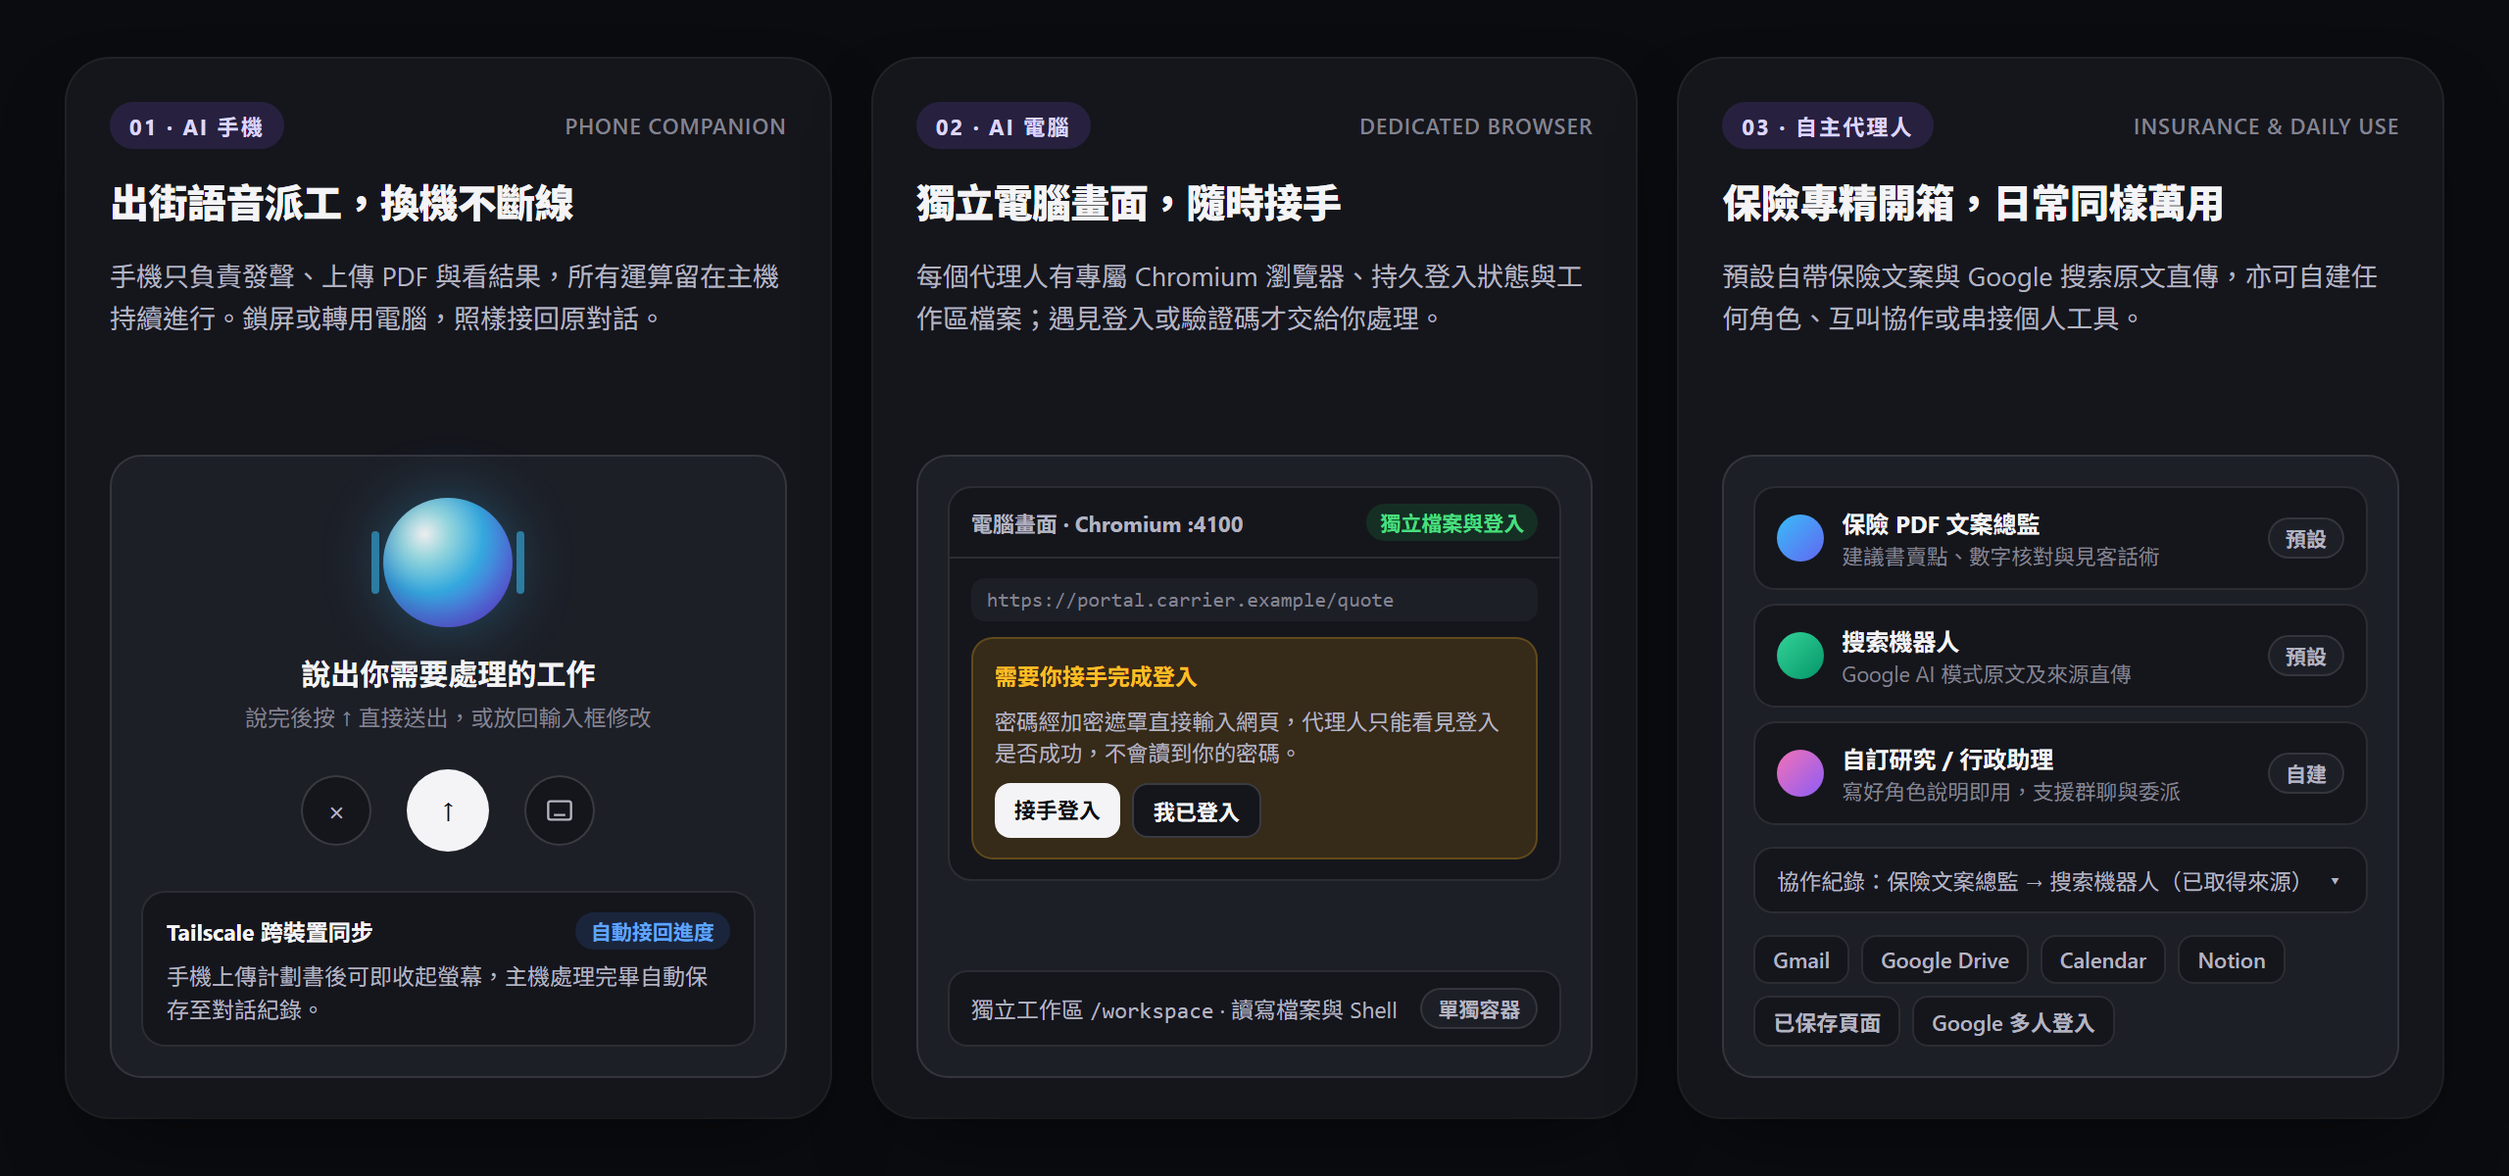
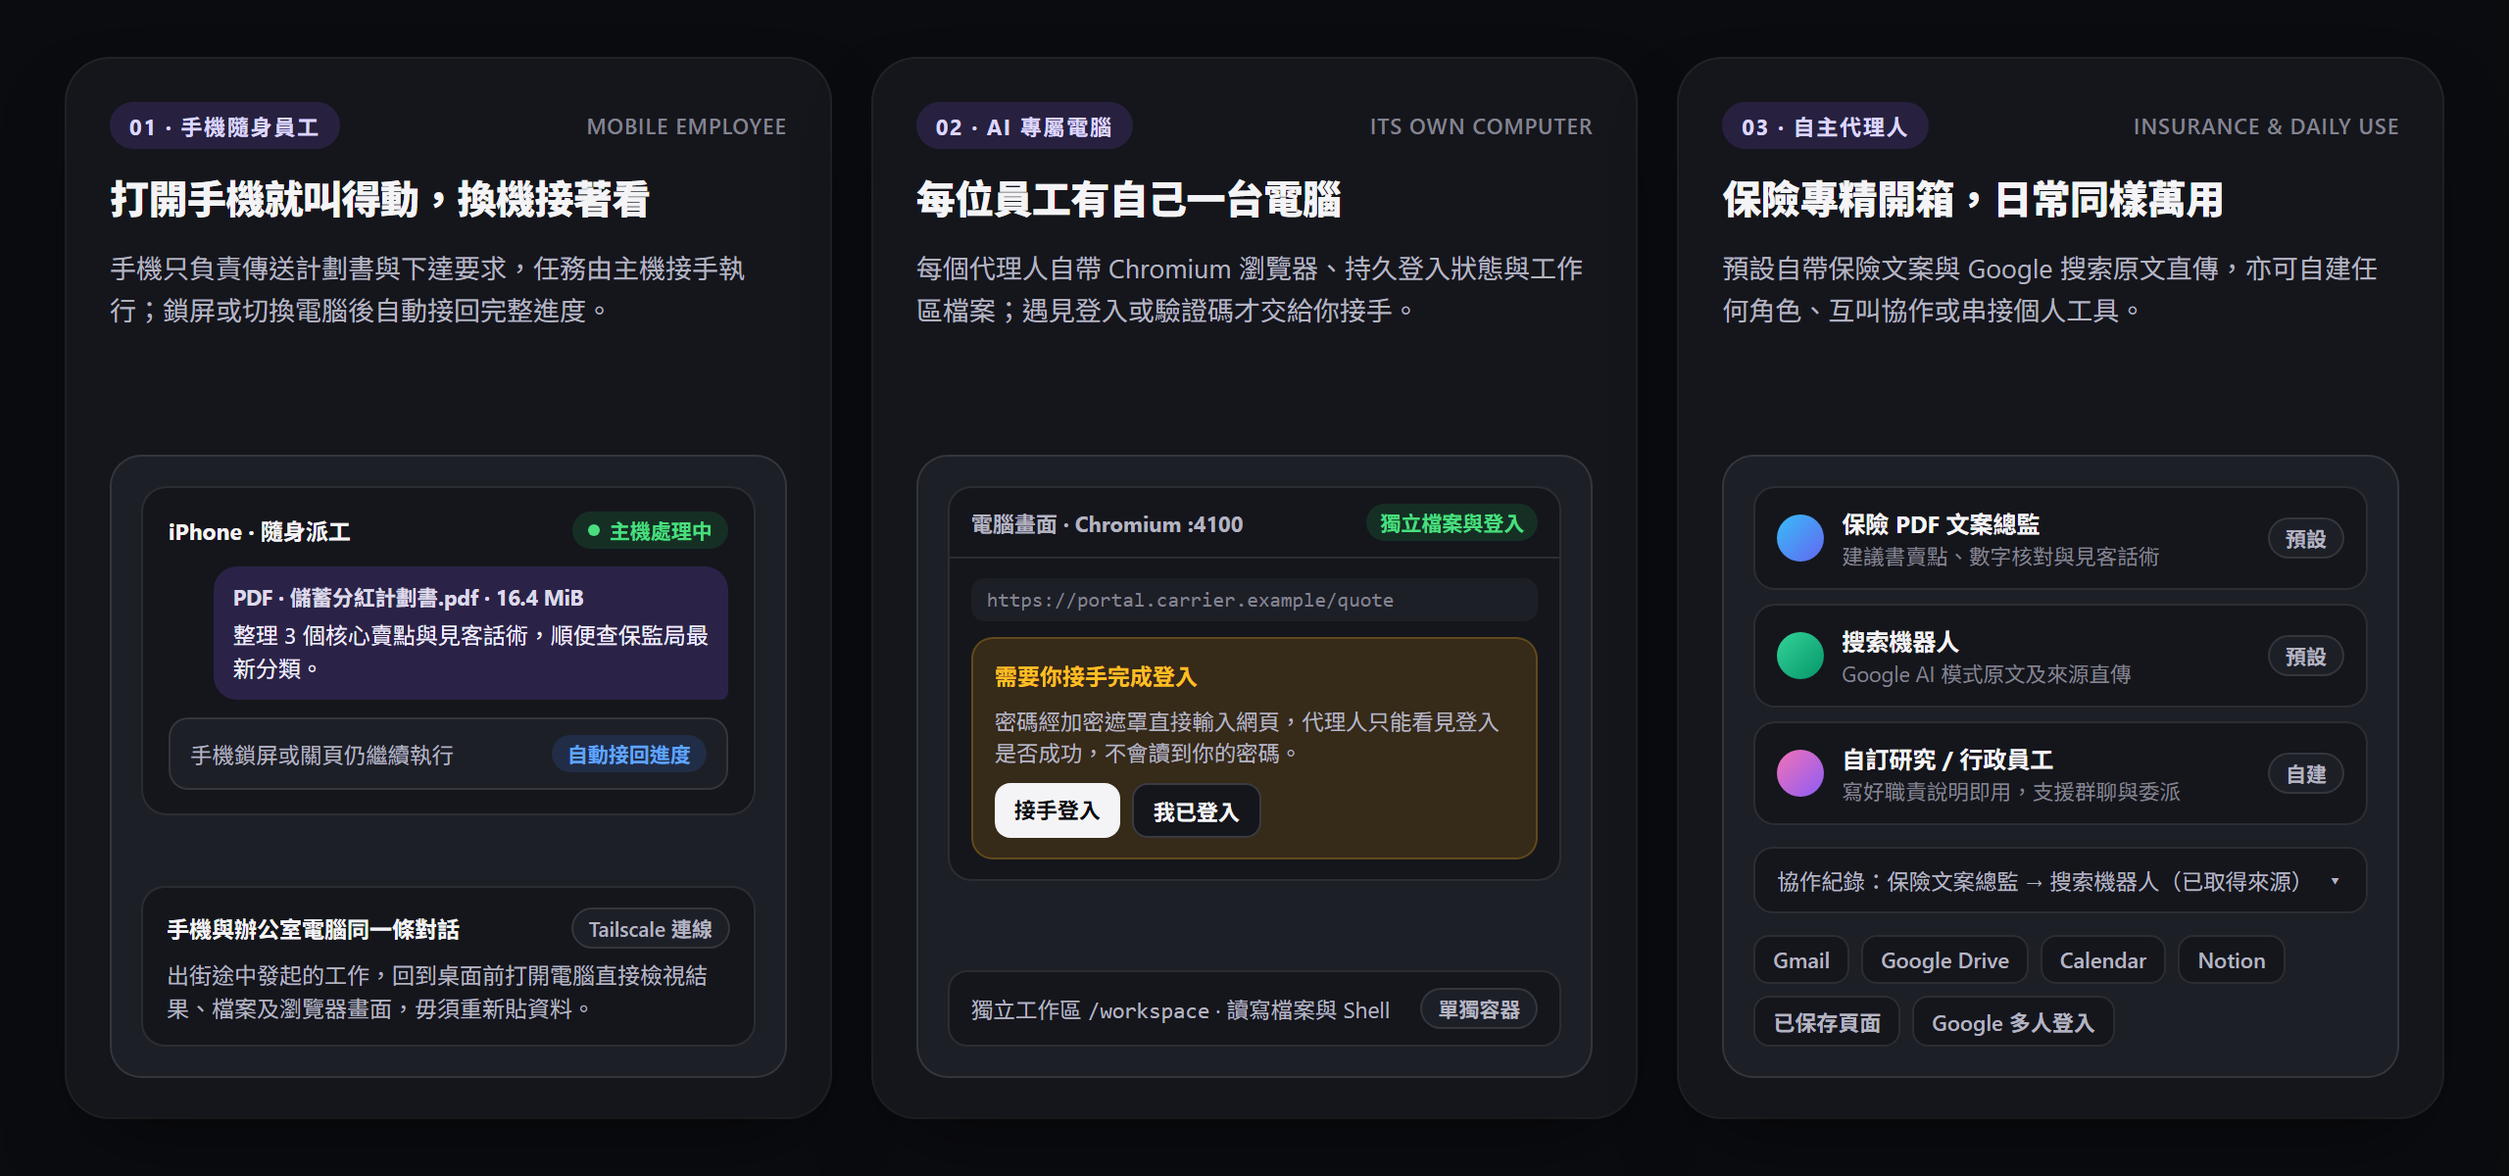
docs: focus README and visuals on mobile employee and dedicated AI computer [skip ci]

diff --git a/README.md b/README.md
@@ -3,14 +3,14 @@
 <picture>
   <source media="(prefers-color-scheme: dark)" srcset="assets/banner-dark.png">
   <source media="(prefers-color-scheme: light)" srcset="assets/banner.png">
-  <img src="assets/banner.png" alt="PDSDuet — 會自己開電腦做事的 AI，手機隨時指揮、實時看畫面" width="100%">
+  <img src="assets/banner.png" alt="PDSDuet — 每個 AI 都有自己的電腦，手機就是你的隨身員工" width="100%">
 </picture>
 
 <br>
 
-### 一部會自己開電腦做事、手機隨時接手的自主 AI 代理人
+### 每個 AI 都有自己的電腦，手機就是你的隨身員工
 
-An autonomous AI agent with its own computer — built for insurance brokers first, simple enough for anyone to run daily.
+Your mobile AI employee, backed by its own persistent computer — built for insurance brokers first, simple enough for anyone to use daily.
 
 <p>
   <a href="#繁體中文介紹"><strong>繁體中文</strong></a> ·
@@ -34,10 +34,10 @@ An autonomous AI agent with its own computer — built for insurance brokers fir
 <picture>
   <source media="(prefers-color-scheme: dark)" srcset="assets/showcase-dark.png">
   <source media="(prefers-color-scheme: light)" srcset="assets/showcase.png">
-  <img src="assets/showcase.png" alt="PDSDuet 三大核心能力：AI 手機隨身派工、AI 電腦實時畫面接手、保險與日常多代理協作" width="100%">
+  <img src="assets/showcase.png" alt="PDSDuet 三大核心能力：手機隨身員工、AI 專屬電腦、保險與日常自主代理人" width="100%">
 </picture>
 <br>
-<sub>出街手機語音派工 · 瀏覽器畫面隨時接手 · 保險專精開箱亦支援自建角色與團隊共用</sub>
+<sub>手機打開隨時派工 · 每位員工有獨立電腦與瀏覽器 · 保險專精開箱亦支援自建角色與團隊共用</sub>
 </div>
 
 ---
@@ -50,7 +50,7 @@ An autonomous AI agent with its own computer — built for insurance brokers fir
 
 保險從業員日常最花精神的，往往不是專業判斷，而是**趕著見客前，要把幾十頁保司計劃書拆成客人聽得明的重點與講法**；或者在外出途中，臨時要查公開條款、對數字、整理跟進草稿。
 
-一般對話式 AI 每次換裝置都要重頭交代、開不了真實網頁查原文，手機一鎖屏長任務就斷。**PDSDuet** 把主機上的 **AI 電腦**、口袋裡的**手機網頁伴侶**與可分工的**自主代理人**放進同一個工作台：你在外面用手機講一句或丟入計劃書 PDF，主機在後方繼續跑；回到電腦前打開同一個畫面，進度、檔案和瀏覽器登入狀態都在。
+一般對話式 AI 每次換裝置都要重頭交代、開不了真實網頁查原文，手機一鎖屏長任務就斷。**PDSDuet** 把主機上的 **AI 專屬電腦**、手機裡的**隨身 AI 員工**與可分工的**自主代理人**放進同一個工作台：你在外面用手機打開網頁丟入計劃書 PDF 或指派任務，主機在後方繼續跑；回到電腦前打開同一條對話，進度、檔案與瀏覽器登入狀態全部接得上。
 
 ---
 
@@ -60,26 +60,26 @@ An autonomous AI agent with its own computer — built for insurance brokers fir
 <tr>
 <td width="33.3%" valign="top">
 
-#### 📱 AI 手機 · 隨身指揮不斷線
-- **手機電腦同一條對話**：經 Tailscale 安全連回主機，外出一半交辦的任務，回公司用電腦直接接著看。
-- **全螢幕語音輸入**：行街坐車不方便打字時，按一下麥克風口述需求，說完直接送出或放回編輯框微調。
-- **鎖屏照樣繼續跑**：所有運算與串流狀態由主機 PostgreSQL 管理，切出畫面或斷線重連後自動恢復進度。
+#### 📱 手機隨身員工 · 打開就叫得動
+- **手機電腦同一條對話**：經 Tailscale 安全連回主機，出街途中在手機下達的工作，回辦公室用電腦直接接著檢視結果。
+- **主機扛起繁重運算**：手機只負責上傳計劃書與下達要求，實際閱讀文件與操作網頁全部在你的主機執行。
+- **鎖屏斷線不掉進度**：對話紀錄與執行狀態由主機 PostgreSQL 管理，切出畫面或重新連線後自動接回實時進度。
 
 </td>
 <td width="33.3%" valign="top">
 
-#### 🖥 AI 電腦 · 看得見、接得手
-- **每個代理人一台電腦**：自帶獨立 Chromium 瀏覽器（保留網站登入狀態）及隔離工作區 `/workspace`。
-- **實時瀏覽器畫面**：對話旁邊隨時展開「電腦畫面」，清楚看見代理人正在看哪一頁、點了哪裡。
-- **安全接手登入**：遇到需要輸入密碼或驗證碼的網站，代理人會停下來交棒給你；密碼透過加密遮罩直接輸入網頁，代理人永不接觸密碼。
+#### 🖥 AI 專屬電腦 · 每位員工一台機
+- **獨立瀏覽器與工作區**：每個代理人自帶專屬 Chromium 瀏覽器（保留網站登入狀態）及隔離工作區 `/workspace`，支援讀寫檔案與 Shell 指令。
+- **實時看到電腦畫面**：對話旁邊隨時展開「電腦畫面」，清楚看見這位員工正在開哪個網頁、查到哪裡。
+- **安全接手登入**：遇到網站需要輸入密碼或驗證碼時自動暫停；密碼透過加密遮罩直接送入網頁，代理人永不接觸密碼，登入完交還控制權即繼續。
 
 </td>
 <td width="33.3%" valign="top">
 
 #### 🤝 自主代理人 · 保險專精、日常萬用
-- **開箱即用雙代理人**：內建「保險 PDF 文案總監」與「搜索機器人」，不用自己從零寫設定。
-- **Bot 之間直接協作**：主代理人可主動委派其他代理人查資料，過程收起為可展開的協作紀錄，最後統一整理交回給你。
-- **自建角色與群聊**：隨時新增任何專長的新代理人，亦可開一個群聊讓多個代理人同場各自回應。
+- **開箱即用雙員工**：內建「保險 PDF 文案總監」與「搜索機器人」，不用自己從零寫設定。
+- **員工之間直接協作**：主代理人可主動委派其他代理人查資料，過程收起成可展開的協作紀錄，最後整理成完整回覆交給你。
+- **自建角色與群聊**：隨時新增任何專長的新員工，亦可開一個群聊讓多位代理人同場各自回應。
 
 </td>
 </tr>
@@ -89,29 +89,29 @@ An autonomous AI agent with its own computer — built for insurance brokers fir
 
 ### 保險從業者的 5 分鐘日常
 
-1. **選取代理人，直接丟入 PDF 原檔**
-   在手機或電腦打開對話，上載保司產品小冊子或建議書（單檔最高 **20 MiB**，單輪總附件上限 **32 MiB**）。系統會將原始 PDF 直接傳給模型閱讀頁面與數字，而不是粗糙抽取純文字。
+1. **在手機或電腦選取員工，直接丟入 PDF 原檔**
+   上載保司產品小冊子或建議書（單檔最高 **20 MiB**，單輪總附件上限 **32 MiB**）。系統會將原始 PDF 直接傳給模型閱讀頁面與數字，而不是粗糙抽取純文字。
 2. **取得可直接見客的香港繁體中文成稿**
    預設的**保險 PDF 文案總監**會依實際文件產出：
    - **產品一句話定位**
    - **3 至 4 個不重複的核心賣點**（由客戶實際財務痛點切入到具體保障或回報數字）
    - **可直接說出口的示範話術**（得體自然的香港書面繁體中文，不寫空洞口號，亦不在結尾追問客套話）
    - **2 條客戶常見問題與正面解答**
-3. **要查保監局、稅務或醫療公開資料，直接交給搜索機器人**
+3. **要查保監局、稅務或醫療公開資料，交給搜索機器人**
    **搜索機器人**會用瀏覽器固定分頁開啟 Google AI 模式查詢，把完整回答與來源連結原文直傳給你，不做擅自改寫或刪節。
 4. **遇到需要登入保司系統或網頁查核，點一下接手**
-   展開右側「電腦畫面」，自己輸入帳號密碼完成驗證後按「我已登入」，代理人就會接著完成餘下步驟。
+   展開「電腦畫面」，自己輸入帳號密碼完成驗證後按「我已登入」，AI 員工就會接著完成餘下步驟。
 
 ---
 
 ### 普通人也能拿來做甚麼？
 
-你不做保險，一樣可以把 PDSDuet 當成自己的「隨身 AI 電腦」：
+你不做保險，一樣可以把 PDSDuet 當成養在自己主機上的「隨身數碼員工」：
 
-- **自建專職小助手**：新增代理人時只需寫清楚名稱與職責說明（支援直接調用 OpenAI / Anthropic，或接駁你自己的 AG-UI / LangGraph 服務），就能變成旅遊比價、租約／條款核對、技術研究或書信寫作助手。
-- **瀏覽器＋工作區雙管齊下**：讓它替你打開網頁讀資料、用 Shell 處理文字或整理筆記寫入 `/workspace`，也可以把整理好的報告存成**已保存頁面**隨時重溫。
+- **寫一段職責說明就多一位專屬員工**：新增代理人時只需填寫名稱與職責（支援直接調用 OpenAI / Anthropic，或接駁你自己的 AG-UI / LangGraph 服務），就能變成旅遊比價、租約／合約細則梳理、技術研究或書信寫作助手。
+- **有電腦可用，不只是純聊天**：讓它替你開網頁讀資料、用工作區 `/workspace` 處理文件與腳本，亦可以把整理好的報告存成**已保存頁面**隨時查閱。
 - **按意願串接個人工具**：在「應用程式連接」授權接上 **Gmail、Google Drive、Google Calendar 或 Notion**，寄信等外部動作由你親自批核。
-- **自己用，或跟家人／團隊共用一台主機**：支援 Google、Microsoft、Okta 帳號登入，沿用管理員與一般用戶權限，各人對話與授權分開管理；亦支援單人模式本機啟動。
+- **一人私用，或團隊共用同一主機**：支援 Google、Microsoft、Okta 帳號登入，沿用管理員與一般用戶權限，各人對話與授權分開管理；亦支援單人模式本機啟動。
 
 ---
 
@@ -119,21 +119,21 @@ An autonomous AI agent with its own computer — built for insurance brokers fir
 
 ## English
 
-**PDSDuet** is a self-hosted AI workstation where each agent has its own browser, workspace, and persistent session — steered from either your desktop or your phone. It ships ready for **Hong Kong insurance agents** preparing client meetings, and stays clean and general enough for everyday research and personal workflows.
+**PDSDuet** gives every AI agent its own computer and puts that team in your pocket. Built first around an **insurance broker's** daily workflow, and straightforward enough for anyone who wants reliable, self-hosted digital coworkers accessible from both phone and desktop.
 
 ### Why it feels different from a standard chat box
 
 | Pillar | What actually happens |
 | --- | --- |
-| **AI Computer** | Each Bot runs with its own Chromium profile, persistent sign-in state, shell, and `/workspace`. Open **Live Screen** beside the chat to watch it browse, or take over when a portal asks for login or 2FA — passwords typed into the masked prompt go straight to the page and never enter the model's transcript. |
-| **Phone Companion** | Open the web UI on your phone over Tailscale, attach a proposal PDF, or dictate a task with the full-screen voice sheet. Work continues on the host even if you lock your phone; reconnecting restores the live stream and completed transcript. |
-| **Autonomous Agents** | Ships with two default Bots in [agents.yaml](openbot/examples/openduet/agents.yaml): **保險 PDF 文案總監** (turns uploaded insurance PDFs into grounded Hong Kong Traditional Chinese selling points, spoken-ready scripts, and client Q&A) and **搜索機器人** (fetches verbatim Google AI Mode answers with source links). Add custom Bots, let Bots delegate to each other (`message_bot`), run group chats, or save outputs as readable pages. |
+| **A Mobile Employee** | Open the web app on your phone over Tailscale, drop in a proposal PDF, or assign a task on the move. Your host machine does the heavy lifting — locking your phone or switching to your desk browser never interrupts the run, and reconnecting picks up the live stream cleanly. |
+| **Each AI Has Its Own Computer** | Every Bot gets a persistent Chromium profile, its own sign-in state, shell, and isolated `/workspace`. Open **Live Screen** beside the chat to watch it work, or step in when a portal asks for login or 2FA — credentials typed into the masked prompt go straight to the browser and never enter the model's transcript. |
+| **Built for Insurance, Open to Everyday Work** | Ships with two default Bots in [agents.yaml](openbot/examples/openduet/agents.yaml): **保險 PDF 文案總監** (reads uploaded PDFs natively into Hong Kong Traditional Chinese selling points, grounded numbers, scripts, and Q&A) and **搜索機器人** (returns verbatim Google AI Mode answers with source links). Add your own roles, let Bots delegate to one another (`message_bot`), run group chats, or connect Gmail, Google Drive, Calendar, and Notion with per-user approval. |
 
 ### Built for insurance brokers, open to everyday workflows
 
-- **For insurance agents:** Drop in a product brochure or benefit illustration PDF (up to **20 MiB** per file; sent to the model as an original PDF rather than naive text scraping) and walk into your client meeting with verified figures, plain-language positioning, scripts, and objection answers.
-- **For everyday users:** Replace or add any Bot role with a plain description. Use it as a personal web researcher that keeps its own browser tabs, saves curated pages, works inside `/workspace`, or connects to your **Gmail, Google Drive, Google Calendar, and Notion** under explicit per-user consent.
-- **For solo or small teams:** Run single-user on your own machine, or enable **Google / Microsoft / Okta** sign-in so teammates share one self-hosted server and model key while keeping their own conversations and app grants separate.
+- **For insurance agents:** Upload a product brochure or benefit illustration PDF (up to **20 MiB** per file; sent to the model as an original PDF rather than naive text scraping) from your phone or laptop and walk into your meeting with verified figures, plain positioning, scripts, and objection handling.
+- **For everyday users:** Add any Bot role in plain words. Use it as a web researcher that keeps its own browser tabs, saves curated pages, edits files inside `/workspace`, or handles email and document lookups under explicit per-action approval.
+- **For solo or small teams:** Start in single-user mode on one machine, or enable **Google / Microsoft / Okta** sign-in so colleagues or family members share one self-hosted host while keeping conversations and app grants separate.
 
 ---
 
@@ -190,7 +190,7 @@ bash scripts/stop.sh --keep-computers
 
 | 層面 Area | 實際規格 Implementation |
 | --- | --- |
-| **前端介面 Web App** | React、TypeScript、TanStack Router / Query，香港繁體中文介面，支援深淺色模式、手機語音輸入與 SSE 斷線續傳。 |
+| **前端介面 Web App** | React、TypeScript、TanStack Router / Query，香港繁體中文介面，支援深淺色模式、手機操作排版與 SSE 斷線續傳。 |
 | **執行與結算 Core Runtime** | Bun + 本地 PostgreSQL；聊天、群聊與 Bot 委派共用單一執行入口與結算模組（[architecture.md](openbot/docs/architecture.md)）。 |
 | **AI 電腦 Browser & Files** | Playwright + Chromium 沙盒電腦，支援每 Bot 獨立容器（`supervisor`）或共用容器分資料夾隔離，含實時螢幕與接手控制。 |
 | **檔案與上下文 Limits** | 單檔上傳上限 **20 MiB**（PDF 原檔送交模型；Markdown / 純文字保存全文並傳送前 120,000 字元），單輪附件上限 **32 MiB**；非 PDF 內容採 `o200k_base` 300,000 tokens 應用層預算。 |
